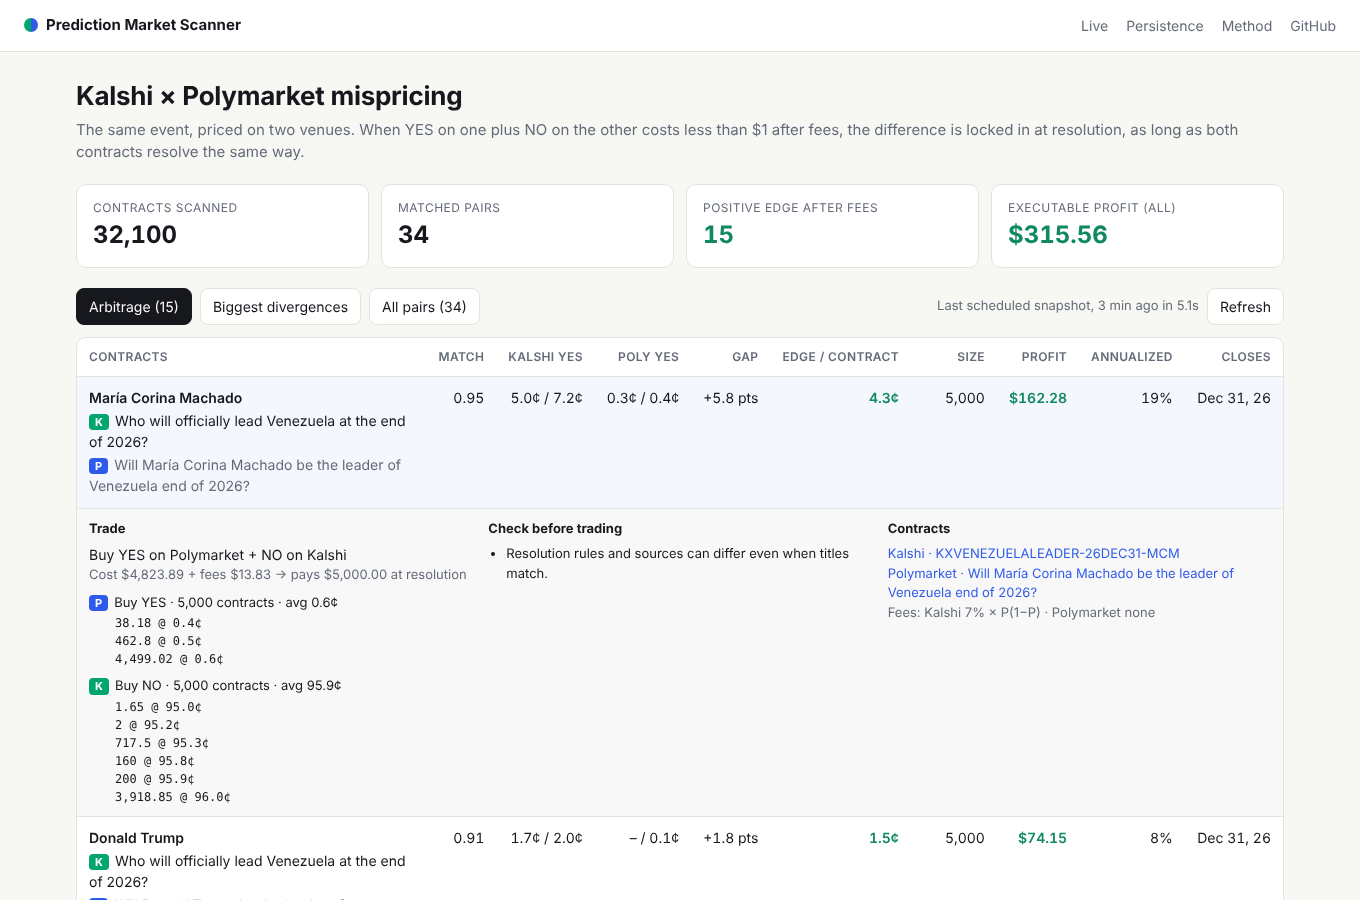
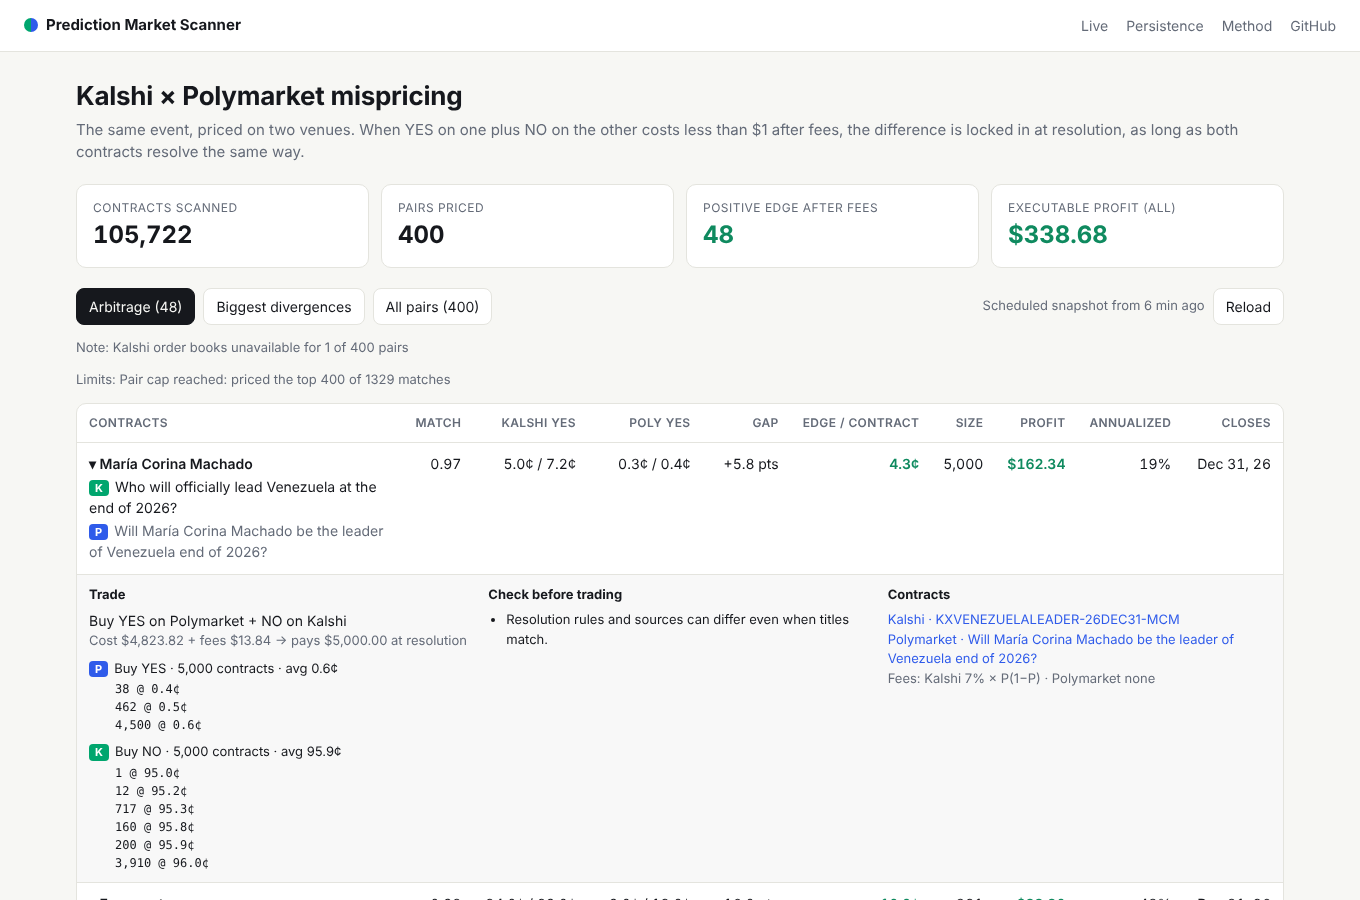
Dashboard: 'Pairs priced' label, minor notes stay muted; v5 screenshot

diff --git a/src/app/page.tsx b/src/app/page.tsx
@@ -55,7 +55,7 @@ export default function LivePage() {
 
       <div className="stats">
         <Stat label="Contracts scanned" value={s ? ((s.kalshiMarkets ?? 0) + (s.polymarketMarkets ?? 0)).toLocaleString() : null} />
-        <Stat label="Matched pairs" value={s ? String(s.matchedPairs ?? 0) : null} />
+        <Stat label="Pairs priced" value={s ? String(s.matchedPairs ?? 0) : null} />
         <Stat label="Positive edge after fees" value={s ? String(s.opportunities ?? 0) : null} good={!!s?.opportunities} />
         <Stat label="Executable profit (all)" value={s ? usd(s.executableProfit) : null} good={!!s?.executableProfit} />
       </div>
@@ -88,7 +88,13 @@ export default function LivePage() {
       </div>
 
       {error && <div className="notice warn">Couldn&apos;t load the scan: {error}</div>}
-      {scan?.errors?.length ? <div className="notice warn">Partial data: {scan.errors.join("; ")}</div> : null}
+      {scan?.errors?.length ? (
+        scan.complete === false ? (
+          <div className="notice warn">Partial data: {scan.errors.join("; ")}</div>
+        ) : (
+          <p className="muted small">Note: {scan.errors.join("; ")}</p>
+        )
+      ) : null}
       {scan?.warnings?.length ? <p className="muted small">Limits: {scan.warnings.join("; ")}</p> : null}
 
       <div className="table-wrap">
